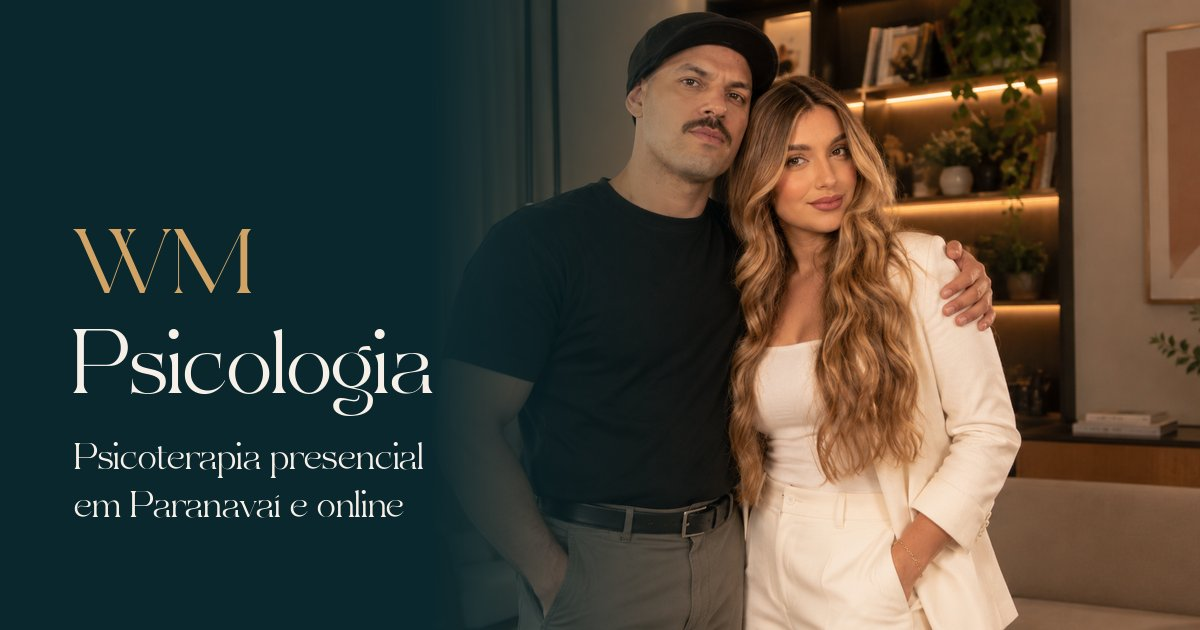
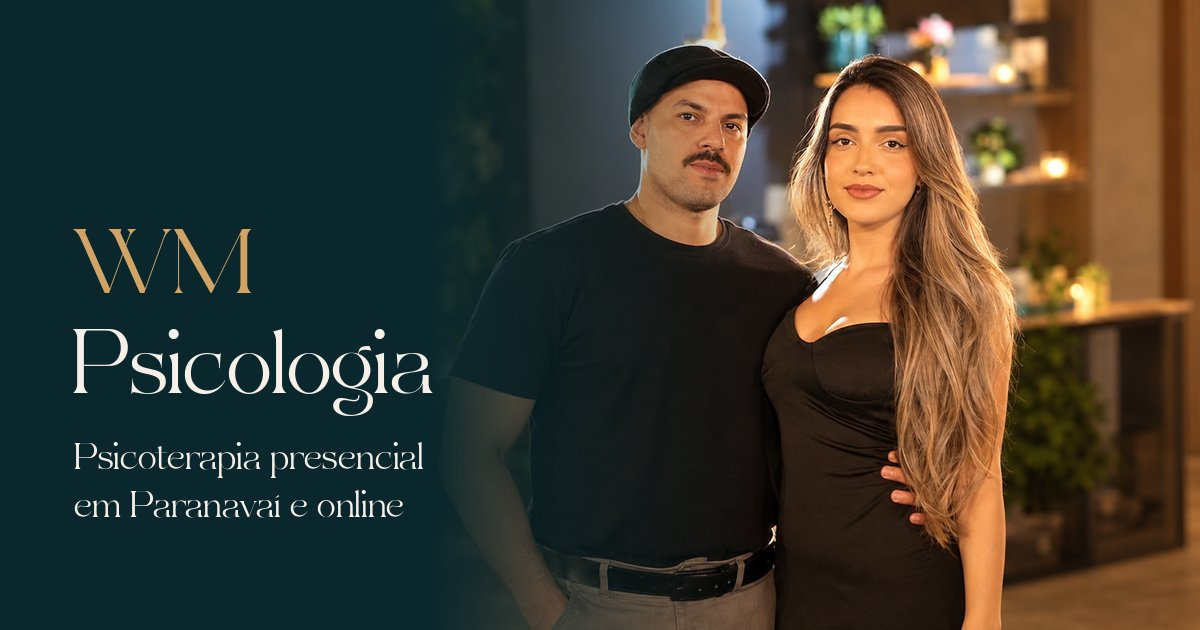
Nova foto do casal no hero, na página de links e na imagem de compartilhamento
Recorte em arco 770x940 e imagem Open Graph 1200x630 refeitos a partir da
foto nova. As referências ganharam ?v=2 para furar o cache de navegadores
e de redes sociais.

Claude-Session: https://claude.ai/code/session_013ZCXgATTZuAXSUnTVjtUT7

diff --git a/index.html b/index.html
@@ -14,7 +14,7 @@
   <meta property="og:title" content="WM Psicologia | Psicoterapia em Paranavaí e online">
   <meta property="og:description" content="Um espaço para compreender o que você está vivendo e encontrar novas possibilidades para seguir.">
   <meta property="og:url" content="https://wmpsicologia.com.br/">
-  <meta property="og:image" content="https://wmpsicologia.com.br/assets/img/og-image.jpg">
+  <meta property="og:image" content="https://wmpsicologia.com.br/assets/img/og-image.jpg?v=2">
   <meta property="og:image:width" content="1200">
   <meta property="og:image:height" content="630">
   <meta name="twitter:card" content="summary_large_image">
@@ -23,7 +23,7 @@
   <link rel="apple-touch-icon" href="apple-touch-icon.png">
   <link rel="preload" href="assets/fonts/aleiakids.woff2" as="font" type="font/woff2" crossorigin>
   <link rel="preload" href="assets/fonts/inter-latin.woff2" as="font" type="font/woff2" crossorigin>
-  <link rel="preload" href="assets/img/duo-arch.webp" as="image" type="image/webp" imagesrcset="assets/img/duo-arch-sm.webp 480w, assets/img/duo-arch.webp 770w" imagesizes="(max-width: 900px) 380px, 470px">
+  <link rel="preload" href="assets/img/duo-arch.webp?v=2" as="image" type="image/webp" imagesrcset="assets/img/duo-arch-sm.webp?v=2 480w, assets/img/duo-arch.webp?v=2 770w" imagesizes="(max-width: 900px) 380px, 470px">
   <link rel="stylesheet" href="assets/css/style.css">
 
   <script type="application/ld+json">
@@ -32,7 +32,7 @@
     "@type": "MedicalClinic",
     "name": "WM Psicologia",
     "url": "https://wmpsicologia.com.br/",
-    "image": "https://wmpsicologia.com.br/assets/img/og-image.jpg",
+    "image": "https://wmpsicologia.com.br/assets/img/og-image.jpg?v=2",
     "description": "Psicoterapia para crianças, adolescentes e adultos, presencial em Paranavaí e online.",
     "medicalSpecialty": "Psychiatric",
     "address": {
@@ -125,8 +125,8 @@
         <div class="hero__media reveal" style="--d:.2s">
           <svg class="arch-outline" aria-hidden="true" focusable="false"><path/></svg>
           <div class="arch">
-            <img src="assets/img/duo-arch.webp"
-                 srcset="assets/img/duo-arch-sm.webp 480w, assets/img/duo-arch.webp 770w"
+            <img src="assets/img/duo-arch.webp?v=2"
+                 srcset="assets/img/duo-arch-sm.webp?v=2 480w, assets/img/duo-arch.webp?v=2 770w"
                  sizes="(max-width: 900px) 380px, 470px"
                  width="770" height="940" fetchpriority="high"
                  alt="Willian Santos e Maria Vitória Brandão, psicólogos da WM Psicologia, lado a lado na clínica">

diff --git a/links/index.html b/links/index.html
@@ -12,7 +12,7 @@
   <meta property="og:title" content="WM Psicologia">
   <meta property="og:description" content="Psicoterapia presencial em Paranavaí e online.">
   <meta property="og:url" content="https://wmpsicologia.com.br/links/">
-  <meta property="og:image" content="https://wmpsicologia.com.br/assets/img/og-image.jpg">
+  <meta property="og:image" content="https://wmpsicologia.com.br/assets/img/og-image.jpg?v=2">
   <link rel="icon" type="image/png" sizes="48x48" href="../favicon-48.png">
   <link rel="apple-touch-icon" href="../apple-touch-icon.png">
   <link rel="preload" href="../assets/fonts/aleiakids.woff2" as="font" type="font/woff2" crossorigin>
@@ -83,7 +83,7 @@
     <div class="bio__inner">
       <div class="bio__photo">
         <svg class="bio__ring" viewBox="0 0 132 132" aria-hidden="true" focusable="false"><circle cx="66" cy="66" r="65.5"/></svg>
-        <div><img src="../assets/img/duo-arch-sm.webp" width="480" height="586" alt="Willian Santos e Maria Vitória Brandão"></div>
+        <div><img src="../assets/img/duo-arch-sm.webp?v=2" width="480" height="586" alt="Willian Santos e Maria Vitória Brandão"></div>
       </div>
       <a class="brand" href="../" aria-label="WM Psicologia, página inicial">
         <span class="brand__wm">WM</span>

diff --git a/links/mavi/index.html b/links/mavi/index.html
@@ -12,7 +12,7 @@
   <meta property="og:title" content="Maria Vitória Brandão | Psicóloga">
   <meta property="og:description" content="Psicoterapia para crianças, adolescentes e adultos com Maria Vitória Brandão, presencial em Paranavaí e online. Particular e convênios.">
   <meta property="og:url" content="https://wmpsicologia.com.br/links/mavi/">
-  <meta property="og:image" content="https://wmpsicologia.com.br/assets/img/og-image.jpg">
+  <meta property="og:image" content="https://wmpsicologia.com.br/assets/img/og-image.jpg?v=2">
   <link rel="icon" type="image/png" sizes="48x48" href="../../favicon-48.png">
   <link rel="apple-touch-icon" href="../../apple-touch-icon.png">
   <link rel="preload" href="../../assets/fonts/aleiakids.woff2" as="font" type="font/woff2" crossorigin>

diff --git a/links/willian/index.html b/links/willian/index.html
@@ -12,7 +12,7 @@
   <meta property="og:title" content="Willian Santos | Psicólogo">
   <meta property="og:description" content="Psicoterapia para adultos com Willian Santos, gestalt-terapeuta, presencial em Paranavaí e online. Agende pelo WhatsApp.">
   <meta property="og:url" content="https://wmpsicologia.com.br/links/willian/">
-  <meta property="og:image" content="https://wmpsicologia.com.br/assets/img/og-image.jpg">
+  <meta property="og:image" content="https://wmpsicologia.com.br/assets/img/og-image.jpg?v=2">
   <link rel="icon" type="image/png" sizes="48x48" href="../../favicon-48.png">
   <link rel="apple-touch-icon" href="../../apple-touch-icon.png">
   <link rel="preload" href="../../assets/fonts/aleiakids.woff2" as="font" type="font/woff2" crossorigin>
